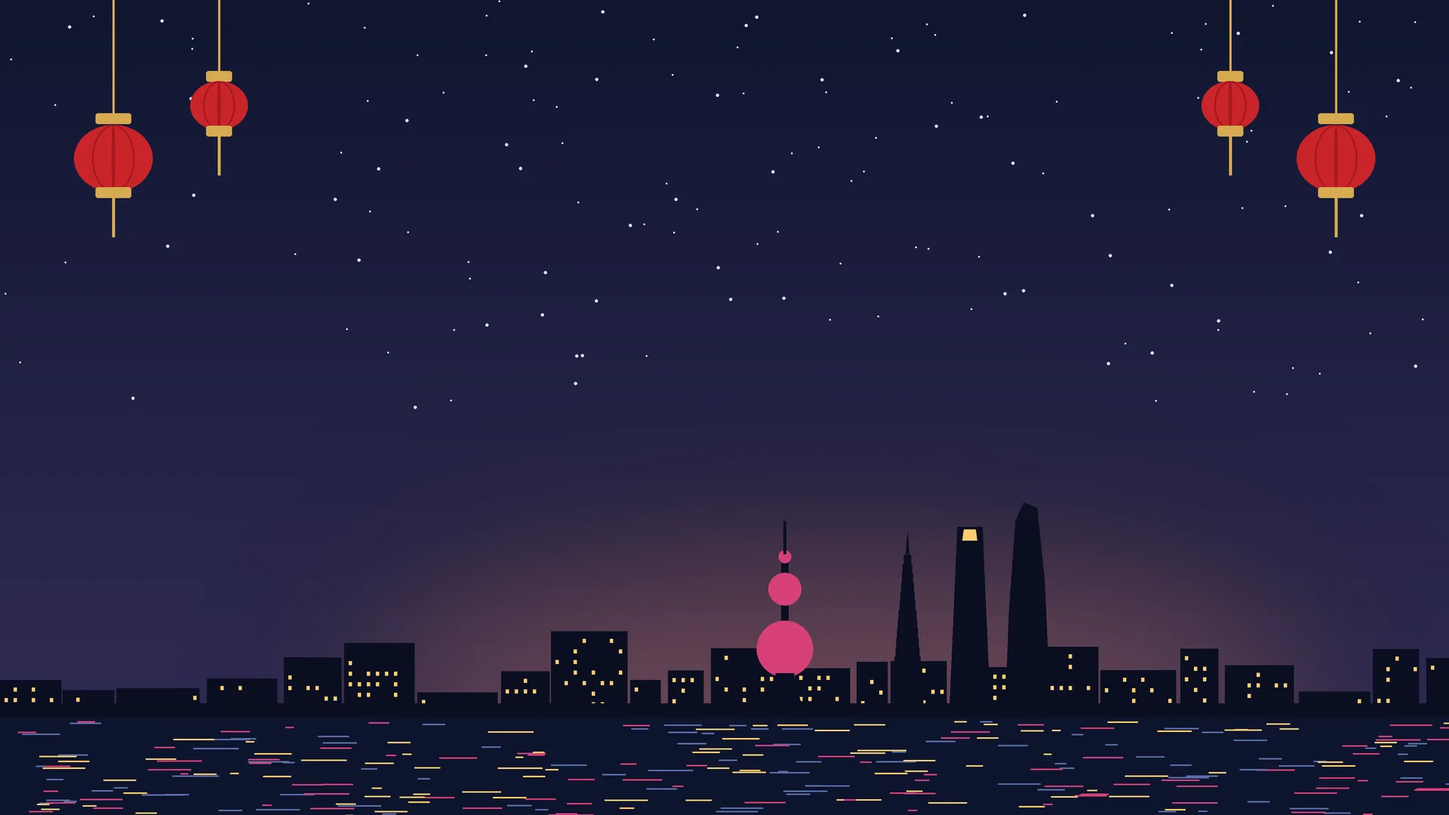
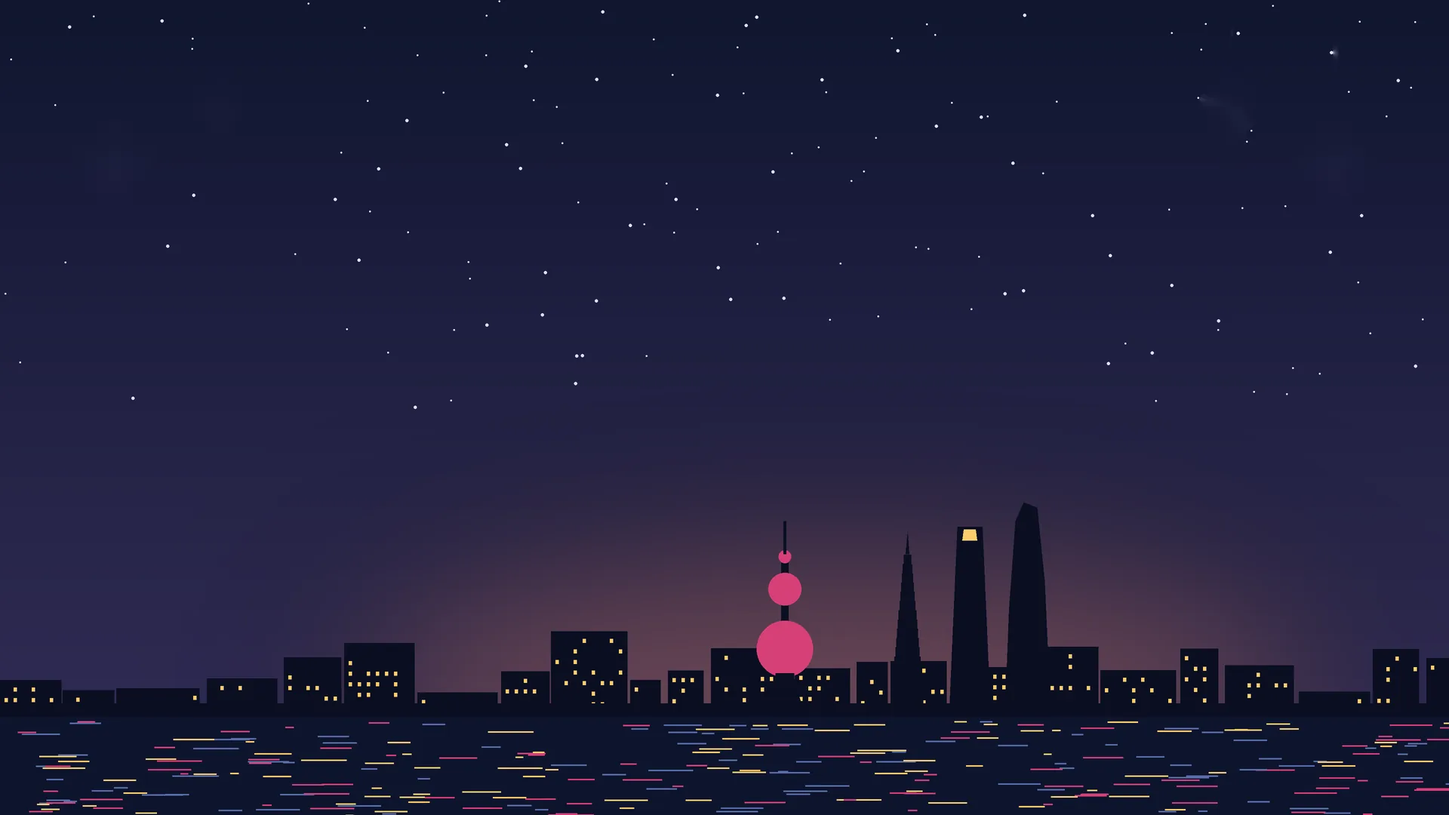
Present: cycle day photo through stops with row highlight, timeline line, living night cover (swaying lanterns, stars, tower glow, water shimmer); autoplay follows the photo cycle
Claude-Session: https://claude.ai/code/session_01Ed3mK7ju1anE1NoZYgHmwk

Changed region(s): [[0.8125, 0.0611, 0.9688, 0.275], [0.0312, 0.0611, 0.1875, 0.275]]

diff --git a/present.html b/present.html
@@ -25,6 +25,8 @@ html,body{margin:0;height:100%;overflow:hidden;background:var(--night);color:var
 #rim i{position:absolute;left:478px;top:478px;width:16px;height:16px;margin:-8px 0 0 -8px;border-radius:50%;background:var(--rim)}
 .dc{width:352px;height:352px;border-radius:50%;border:8px solid #fff;overflow:hidden;box-shadow:0 10px 30px #1f2a4433;cursor:pointer}
 .dc img{width:100%;height:100%;object-fit:cover;display:block;opacity:0}
+.dc .cy{position:absolute;inset:0;transition:opacity .9s ease;transform:scale(1.08);transition:opacity .9s ease,transform 3s cubic-bezier(.2,.6,.3,1)}
+.dc .cy.on{transform:scale(1)}
 .lb{width:160px;height:160px;border-radius:50%;border:5px solid transparent;display:flex;flex-direction:column;align-items:center;justify-content:center;color:#fff;font-family:Kanit,sans-serif;line-height:1;pointer-events:none}
 .lb small{font-size:22px;font-weight:400;opacity:.95}
 .lb b{font-size:76px;font-weight:600;margin-top:2px}
@@ -43,11 +45,16 @@ html,body{margin:0;height:100%;overflow:hidden;background:var(--night);color:var
 .ph-head h2{margin:2px 0 0;font:700 46px/1.15 Kanit,sans-serif}
 .ph-head p{margin:6px 0 0;font:400 21px Sarabun,sans-serif;color:var(--mute)}
 .row{position:absolute;left:0;width:896px;display:flex;align-items:center;background:#ffffffd9;border-radius:12px;box-shadow:0 4px 14px #1f2a4412}
-.row .th{border-radius:50%;flex:none;background:#dfe5ef center/cover no-repeat;border:3px solid;display:grid;place-items:center}
+.row{transition:translate .45s cubic-bezier(.3,1.3,.5,1),background .4s,box-shadow .4s}
+.row.act{background:#fff;translate:14px 0;box-shadow:0 10px 26px #1f2a4429,inset 6px 0 0 var(--c)}
+.row .th{border-radius:50%;flex:none;position:relative;z-index:2;transition:transform .45s cubic-bezier(.3,1.4,.5,1);background:#dfe5ef center/cover no-repeat;border:3px solid;display:grid;place-items:center}
 .row .th img{width:58%;height:58%}
+.row.act .th{transform:scale(1.14)}
+.tl{position:absolute;width:3px;margin-left:-1.5px;border-radius:3px;opacity:.5;z-index:1;transform-origin:top;animation:tl 1.5s .45s cubic-bezier(.45,0,.2,1) backwards}
+@keyframes tl{from{transform:scaleY(0)}}
 .row .tm{font-family:Kanit,sans-serif;font-weight:600;flex:none}
 .row .tx{font-weight:600;color:var(--ink);white-space:nowrap;overflow:hidden;text-overflow:ellipsis}
-.in{animation:pin .7s cubic-bezier(.2,.8,.25,1) both}
+.in{animation:pin .7s cubic-bezier(.2,.8,.25,1) backwards}
 @keyframes pin{from{opacity:0;transform:translateX(40px)}}
 .out{animation:pout .35s ease-in both}
 @keyframes pout{to{opacity:0;transform:translateX(-24px)}}
@@ -59,6 +66,25 @@ html,body{margin:0;height:100%;overflow:hidden;background:var(--night);color:var
 .credits ul{margin:0;padding:0;list-style:none;columns:2;column-gap:56px;font-size:15px;line-height:1.5;color:#3a4563}
 .credits li{break-inside:avoid;margin-bottom:3px}
 
+
+/* living night cover */
+#fx{position:absolute;inset:0;pointer-events:none;transition:opacity 1s ease}
+#fx:not(.on) *{animation-play-state:paused!important}
+.lan{position:absolute;top:-6px;transform-origin:50% 0;animation:sway 4s ease-in-out infinite alternate}
+@keyframes sway{from{rotate:-3.2deg}to{rotate:3.2deg}}
+.star{position:absolute;border-radius:50%;background:#fff;animation:tw 3s ease-in-out infinite alternate}
+@keyframes tw{from{opacity:1}to{opacity:.15}}
+.glow{position:absolute;border-radius:50%;animation:glow 2.6s ease-in-out infinite alternate}
+@keyframes glow{from{opacity:.25;transform:scale(.85)}to{opacity:.9;transform:scale(1.15)}}
+.beacon{position:absolute;width:10px;height:10px;border-radius:50%;background:#ffd56b;box-shadow:0 0 14px 6px #ffd56b88;animation:blink 1.6s steps(1) infinite}
+@keyframes blink{50%{opacity:.1}}
+.water{position:absolute;left:0;top:792px;width:3200px;height:108px;opacity:.5;mix-blend-mode:screen;
+ background:repeating-linear-gradient(90deg,transparent 0 46px,#ffffff22 46px 58px,transparent 58px 130px,#f2c46d26 130px 140px,transparent 140px 210px);
+ -webkit-mask:linear-gradient(#000 0,#0000 100%);mask:linear-gradient(#000,#0000);animation:flow 14s linear infinite}
+@keyframes flow{to{transform:translateX(-1600px)}}
+.shoot{position:absolute;left:1100px;top:60px;width:170px;height:2px;border-radius:2px;background:linear-gradient(90deg,#fff0,#fff);rotate:-24deg;opacity:0;animation:shoot 9s 2s ease-out infinite}
+@keyframes shoot{0%{opacity:0;transform:translateX(0)}2%{opacity:1}8%{opacity:0;transform:translateX(-420px)}100%{opacity:0;transform:translateX(-420px)}}
+@media(prefers-reduced-motion:reduce){#fx *{animation:none!important}}
 /* controls (not scaled) */
 .ui{position:fixed;left:50%;bottom:max(14px,env(safe-area-inset-bottom));transform:translateX(-50%);display:flex;gap:8px;align-items:center;padding:6px;border-radius:16px;background:#141a33d9;box-shadow:0 8px 24px #0006;transition:opacity .4s;z-index:5}
 .ui.hide{opacity:.16}
@@ -80,6 +106,7 @@ html,body{margin:0;height:100%;overflow:hidden;background:var(--night);color:var
   <div id="stage" aria-live="polite">
     <div class="bg" id="bgD"></div>
     <div class="bg" id="bgN"></div>
+    <div id="fx" class="on"></div>
     <div id="rim"></div>
     <div id="wheel"></div>
     <div class="abs" id="ptr"></div>
@@ -123,13 +150,28 @@ var BADGE = 124.6, BADGE_S = 136;
 function sizeFor(a) { return a <= 1 ? 352 + (160 - 352) * a : a <= 2 ? 160 + (112 - 160) * (a - 1) : 112; }
 function lerp(a, b, t) { return a + (b - a) * t; }
 
+/* ---------- living night cover: lanterns, stars, tower glow, water shimmer ---------- */
+var fxEl = $('#fx');
+(function () {
+  var K = 1600 / 1920, h = '';
+  [[92, 117, 321, 4.2, 0], [246, 89, 239, 3.5, -1.2], [1586, 89, 239, 3.8, -2.1], [1712, 117, 321, 4.6, -.6]].forEach(function (l, k) {
+    h += '<img class="lan" alt="" src="img/present/lan' + k + '.png" style="left:' + l[0] * K + 'px;width:' + l[1] * K + 'px;height:' + l[2] * K + 'px;animation-duration:' + l[3] + 's;animation-delay:' + l[4] + 's">';
+  });
+  var seed = 7; function rnd() { seed = (seed * 9301 + 49297) % 233280; return seed / 233280; }
+  for (var k = 0; k < 34; k++) { var z = 1.5 + rnd() * 2.5; h += '<i class="star" style="left:' + (rnd() * 1600) + 'px;top:' + (rnd() * 460) + 'px;width:' + z + 'px;height:' + z + 'px;animation-duration:' + (1.6 + rnd() * 3) + 's;animation-delay:' + (-rnd() * 4) + 's"></i>'; }
+  h += '<i class="glow" style="left:807px;top:657px;width:120px;height:120px;background:radial-gradient(#ff5fa0aa,#ff5fa000 65%)"></i>';
+  h += '<i class="glow" style="left:832px;top:607px;width:70px;height:70px;background:radial-gradient(#ff5fa099,#ff5fa000 65%);animation-delay:-1.3s"></i>';
+  h += '<i class="beacon" style="left:1065px;top:585px"></i><i class="water"></i><i class="shoot"></i>';
+  fxEl.innerHTML = h;
+})();
+
 /* ---------- build the wheel ---------- */
 var rim = $('#rim');
 for (var j = 0; j < 18; j++) { var t = document.createElement('i'); var a = j * 20 * Math.PI / 180; t.style.transform = 'translate(' + (R * Math.cos(a)) + 'px,' + (R * Math.sin(a)) + 'px)'; rim.appendChild(t); }
 var wheel = $('#wheel'), C = [], LB = [], SH = [];
 DAYS.forEach(function (d, i) {
   var c = document.createElement('div'); c.className = 'abs dc'; c.style.background = d.c; c.dataset.i = i;
-  c.innerHTML = '<img alt="" decoding="async" src="' + d.photo + '">';
+  c.innerHTML = '<img alt="" decoding="async" src="' + d.photo + '"><img class="cy" alt="" style="opacity:0"><img class="cy" alt="" style="opacity:0">';
   var l = document.createElement('div'); l.className = 'abs lb'; l.style.background = d.c; l.innerHTML = '<small>วันที่</small><b>' + d.n + '</b>';
   var s = document.createElement('div'); s.className = 'abs sh'; s.innerHTML = esc(d.short[0]) + '<br>' + esc(d.short[1]);
   s.style.transform = 'translate(' + (ROW_X0 + i * ROW_DX - 90) + 'px,515px)';
@@ -189,9 +231,10 @@ var panels = $('#panels');
 function dayPanel(d) {
   var n = d.rows.length, gap = n <= 5 ? 22 : 8, top = 248, avail = 632;
   var rh = Math.min(83, (avail + gap) / n - gap), th = rh * .8;
-  var h = '<div class="panel"><div class="ph-head in" style="animation-delay:.25s"><span class="ic" style="background:' + d.c + '"><img alt="" src="' + d.icon + '"></span><div><h2 style="color:' + d.c + '">' + esc(d.h) + '</h2><p>' + esc(d.dt) + '</p></div></div>';
+  var x0 = rh * .2 + th / 2, y0 = top + rh / 2, y1 = top + (n - 1) * (rh + gap) + rh / 2;
+  var h = '<div class="panel" style="--c:' + d.c + '"><div class="tl" style="left:' + x0 + 'px;top:' + y0 + 'px;height:' + (y1 - y0) + 'px;background:' + d.c + '"></div><div class="ph-head in" style="animation-delay:.25s"><span class="ic" style="background:' + d.c + '"><img alt="" src="' + d.icon + '"></span><div><h2 style="color:' + d.c + '">' + esc(d.h) + '</h2><p>' + esc(d.dt) + '</p></div></div>';
   d.rows.forEach(function (r, k) {
-    h += '<div class="row in" style="top:' + (top + k * (rh + gap)) + 'px;height:' + rh + 'px;animation-delay:' + (.42 + k * .07) + 's;padding:0 ' + rh * .2 + 'px">' +
+    h += '<div class="row in" data-k="' + k + '" style="top:' + (top + k * (rh + gap)) + 'px;height:' + rh + 'px;animation-delay:' + (.42 + k * .07) + 's;padding:0 ' + rh * .2 + 'px">' +
       '<span class="th" style="width:' + th + 'px;height:' + th + 'px;border-color:' + d.c + ';' + (r.img ? 'background-image:url(' + r.img + ')' : 'background-color:' + d.c) + '">' + (r.img ? '' : '<img alt="" src="' + d.icon + '">') + '</span>' +
       '<span class="tm" style="color:' + d.c + ';font-size:' + rh * .4 + 'px;width:' + rh * 1.75 + 'px;margin-left:' + rh * .3 + 'px">' + r.t + '</span>' +
       '<span class="tx" style="font-size:' + Math.min(28, rh * .37) + 'px">' + esc(r.title) + '</span></div>';
@@ -204,11 +247,41 @@ function creditsPanel() {
 }
 function preload(i) { var d = DAYS[i]; if (!d) return; d.rows.forEach(function (r) { if (r.img) (new Image()).src = r.img; }); }
 
+/* cycle the big photo through the day's stops and light up the matching row */
+var gen = 0, playing = false;
+function cyOff() { C.forEach(function (c) { [].forEach.call(c.querySelectorAll('.cy'), function (e) { e.style.opacity = 0; e.classList.remove('on'); }); }); }
+function cycle(di, my) {
+  var d = DAYS[di], stops = [], flip = 0, k = 0;
+  d.rows.forEach(function (r, j) { if (r.img) stops.push(j); });
+  var layers = C[di].querySelectorAll('.cy');
+  function rowsAct(j) { [].forEach.call(document.querySelectorAll('.panel .row'), function (r) { r.classList.toggle('act', +r.dataset.k === j); }); }
+  function step() {
+    if (my !== gen) return;
+    if (k >= stops.length) {  // back to the day's cover photo
+      rowsAct(-1); [].forEach.call(layers, function (e) { e.style.opacity = 0; e.classList.remove('on'); });
+      if (playing) { setTimeout(function () { if (my === gen && playing) next(); }, 1400); return; }
+      k = 0; setTimeout(step, 2600); return;
+    }
+    var j = stops[k++], a = layers[flip], b = layers[1 - flip]; flip = 1 - flip;
+    var go = function () {
+      if (my !== gen) return;
+      a.classList.remove('on'); void a.offsetWidth;
+      a.style.zIndex = 2; b.style.zIndex = 1; a.style.opacity = 1; a.classList.add('on');
+      setTimeout(function () { if (my === gen) b.style.opacity = 0; }, 900);
+      rowsAct(j);
+      setTimeout(step, 2300);
+    };
+    a.src = d.rows[j].img; if (a.decode) a.decode().then(go, go); else go();
+  }
+  setTimeout(step, reduce ? 300 : 1500);
+}
+
 var idx = -1;
 function show(i, instant) {
   i = Math.max(0, Math.min(SL.length - 1, i));
   if (i === idx) return;
-  var s = SL[i]; idx = i;
+  var s = SL[i]; idx = i; var my = ++gen; cyOff();
+  fxEl.style.opacity = s.night ? 1 : 0; fxEl.classList.toggle('on', !!s.night);
   $('#bgN').style.opacity = s.night ? 1 : 0;
   t1.style.color = s.tt ? '#5b6683' : '#fff';
   t1.style.opacity = s.k === 'end' || s.k === 'credits' ? 0 : 1;
@@ -222,24 +295,24 @@ function show(i, instant) {
   var html = s.k === 'day' ? dayPanel(DAYS[s.i]) : s.k === 'credits' ? creditsPanel() : '';
   if (html) { var w = document.createElement('div'); w.innerHTML = html; panels.appendChild(w); }
   tweenTo(s, instant ? 0 : (Math.abs(cur.f - s.f) > 2.5 ? 1500 : 1150));
-  if (s.k === 'day') preload(s.i + 1);
+  if (s.k === 'day') { preload(s.i + 1); cycle(s.i, my); }
+  else if (playing) setTimeout(function () { if (my === gen && playing) { if (idx >= SL.length - 1) stopPlay(); else next(); } }, 5200);
   $('#ct').textContent = (i + 1) + ' / ' + SL.length;
   $('#prev').disabled = i === 0; $('#next').disabled = i === SL.length - 1;
   try { history.replaceState(null, '', '#' + (i + 1)); } catch (e) {}
 }
 
 /* ---------- controls ---------- */
-var timer = 0, playB = $('#play');
-function stopPlay() { clearInterval(timer); timer = 0; playB.setAttribute('aria-pressed', 'false'); }
+var playB = $('#play');
+function stopPlay() { playing = false; playB.setAttribute('aria-pressed', 'false'); }
 function next() { show(idx + 1); }
 function prev() { show(idx - 1); }
 $('#next').onclick = function () { stopPlay(); next(); };
 $('#prev').onclick = function () { stopPlay(); prev(); };
 playB.onclick = function () {
-  if (timer) { stopPlay(); return; }
-  playB.setAttribute('aria-pressed', 'true');
-  if (idx === SL.length - 1) show(0);
-  timer = setInterval(function () { if (idx >= SL.length - 1) { stopPlay(); return; } next(); }, 6500);
+  if (playing) { stopPlay(); return; }
+  playing = true; playB.setAttribute('aria-pressed', 'true');
+  if (idx >= SL.length - 1) show(0); else next();
 };
 var fsB = $('#fs');
 if (!document.documentElement.requestFullscreen) fsB.hidden = true;

diff --git a/src/present_template.html b/src/present_template.html
@@ -25,6 +25,8 @@ html,body{margin:0;height:100%;overflow:hidden;background:var(--night);color:var
 #rim i{position:absolute;left:478px;top:478px;width:16px;height:16px;margin:-8px 0 0 -8px;border-radius:50%;background:var(--rim)}
 .dc{width:352px;height:352px;border-radius:50%;border:8px solid #fff;overflow:hidden;box-shadow:0 10px 30px #1f2a4433;cursor:pointer}
 .dc img{width:100%;height:100%;object-fit:cover;display:block;opacity:0}
+.dc .cy{position:absolute;inset:0;transition:opacity .9s ease;transform:scale(1.08);transition:opacity .9s ease,transform 3s cubic-bezier(.2,.6,.3,1)}
+.dc .cy.on{transform:scale(1)}
 .lb{width:160px;height:160px;border-radius:50%;border:5px solid transparent;display:flex;flex-direction:column;align-items:center;justify-content:center;color:#fff;font-family:Kanit,sans-serif;line-height:1;pointer-events:none}
 .lb small{font-size:22px;font-weight:400;opacity:.95}
 .lb b{font-size:76px;font-weight:600;margin-top:2px}
@@ -43,11 +45,16 @@ html,body{margin:0;height:100%;overflow:hidden;background:var(--night);color:var
 .ph-head h2{margin:2px 0 0;font:700 46px/1.15 Kanit,sans-serif}
 .ph-head p{margin:6px 0 0;font:400 21px Sarabun,sans-serif;color:var(--mute)}
 .row{position:absolute;left:0;width:896px;display:flex;align-items:center;background:#ffffffd9;border-radius:12px;box-shadow:0 4px 14px #1f2a4412}
-.row .th{border-radius:50%;flex:none;background:#dfe5ef center/cover no-repeat;border:3px solid;display:grid;place-items:center}
+.row{transition:translate .45s cubic-bezier(.3,1.3,.5,1),background .4s,box-shadow .4s}
+.row.act{background:#fff;translate:14px 0;box-shadow:0 10px 26px #1f2a4429,inset 6px 0 0 var(--c)}
+.row .th{border-radius:50%;flex:none;position:relative;z-index:2;transition:transform .45s cubic-bezier(.3,1.4,.5,1);background:#dfe5ef center/cover no-repeat;border:3px solid;display:grid;place-items:center}
 .row .th img{width:58%;height:58%}
+.row.act .th{transform:scale(1.14)}
+.tl{position:absolute;width:3px;margin-left:-1.5px;border-radius:3px;opacity:.5;z-index:1;transform-origin:top;animation:tl 1.5s .45s cubic-bezier(.45,0,.2,1) backwards}
+@keyframes tl{from{transform:scaleY(0)}}
 .row .tm{font-family:Kanit,sans-serif;font-weight:600;flex:none}
 .row .tx{font-weight:600;color:var(--ink);white-space:nowrap;overflow:hidden;text-overflow:ellipsis}
-.in{animation:pin .7s cubic-bezier(.2,.8,.25,1) both}
+.in{animation:pin .7s cubic-bezier(.2,.8,.25,1) backwards}
 @keyframes pin{from{opacity:0;transform:translateX(40px)}}
 .out{animation:pout .35s ease-in both}
 @keyframes pout{to{opacity:0;transform:translateX(-24px)}}
@@ -59,6 +66,25 @@ html,body{margin:0;height:100%;overflow:hidden;background:var(--night);color:var
 .credits ul{margin:0;padding:0;list-style:none;columns:2;column-gap:56px;font-size:15px;line-height:1.5;color:#3a4563}
 .credits li{break-inside:avoid;margin-bottom:3px}
 
+
+/* living night cover */
+#fx{position:absolute;inset:0;pointer-events:none;transition:opacity 1s ease}
+#fx:not(.on) *{animation-play-state:paused!important}
+.lan{position:absolute;top:-6px;transform-origin:50% 0;animation:sway 4s ease-in-out infinite alternate}
+@keyframes sway{from{rotate:-3.2deg}to{rotate:3.2deg}}
+.star{position:absolute;border-radius:50%;background:#fff;animation:tw 3s ease-in-out infinite alternate}
+@keyframes tw{from{opacity:1}to{opacity:.15}}
+.glow{position:absolute;border-radius:50%;animation:glow 2.6s ease-in-out infinite alternate}
+@keyframes glow{from{opacity:.25;transform:scale(.85)}to{opacity:.9;transform:scale(1.15)}}
+.beacon{position:absolute;width:10px;height:10px;border-radius:50%;background:#ffd56b;box-shadow:0 0 14px 6px #ffd56b88;animation:blink 1.6s steps(1) infinite}
+@keyframes blink{50%{opacity:.1}}
+.water{position:absolute;left:0;top:792px;width:3200px;height:108px;opacity:.5;mix-blend-mode:screen;
+ background:repeating-linear-gradient(90deg,transparent 0 46px,#ffffff22 46px 58px,transparent 58px 130px,#f2c46d26 130px 140px,transparent 140px 210px);
+ -webkit-mask:linear-gradient(#000 0,#0000 100%);mask:linear-gradient(#000,#0000);animation:flow 14s linear infinite}
+@keyframes flow{to{transform:translateX(-1600px)}}
+.shoot{position:absolute;left:1100px;top:60px;width:170px;height:2px;border-radius:2px;background:linear-gradient(90deg,#fff0,#fff);rotate:-24deg;opacity:0;animation:shoot 9s 2s ease-out infinite}
+@keyframes shoot{0%{opacity:0;transform:translateX(0)}2%{opacity:1}8%{opacity:0;transform:translateX(-420px)}100%{opacity:0;transform:translateX(-420px)}}
+@media(prefers-reduced-motion:reduce){#fx *{animation:none!important}}
 /* controls (not scaled) */
 .ui{position:fixed;left:50%;bottom:max(14px,env(safe-area-inset-bottom));transform:translateX(-50%);display:flex;gap:8px;align-items:center;padding:6px;border-radius:16px;background:#141a33d9;box-shadow:0 8px 24px #0006;transition:opacity .4s;z-index:5}
 .ui.hide{opacity:.16}
@@ -80,6 +106,7 @@ html,body{margin:0;height:100%;overflow:hidden;background:var(--night);color:var
   <div id="stage" aria-live="polite">
     <div class="bg" id="bgD"></div>
     <div class="bg" id="bgN"></div>
+    <div id="fx" class="on"></div>
     <div id="rim"></div>
     <div id="wheel"></div>
     <div class="abs" id="ptr"></div>
@@ -123,13 +150,28 @@ var BADGE = 124.6, BADGE_S = 136;
 function sizeFor(a) { return a <= 1 ? 352 + (160 - 352) * a : a <= 2 ? 160 + (112 - 160) * (a - 1) : 112; }
 function lerp(a, b, t) { return a + (b - a) * t; }
 
+/* ---------- living night cover: lanterns, stars, tower glow, water shimmer ---------- */
+var fxEl = $('#fx');
+(function () {
+  var K = 1600 / 1920, h = '';
+  [[92, 117, 321, 4.2, 0], [246, 89, 239, 3.5, -1.2], [1586, 89, 239, 3.8, -2.1], [1712, 117, 321, 4.6, -.6]].forEach(function (l, k) {
+    h += '<img class="lan" alt="" src="img/present/lan' + k + '.png" style="left:' + l[0] * K + 'px;width:' + l[1] * K + 'px;height:' + l[2] * K + 'px;animation-duration:' + l[3] + 's;animation-delay:' + l[4] + 's">';
+  });
+  var seed = 7; function rnd() { seed = (seed * 9301 + 49297) % 233280; return seed / 233280; }
+  for (var k = 0; k < 34; k++) { var z = 1.5 + rnd() * 2.5; h += '<i class="star" style="left:' + (rnd() * 1600) + 'px;top:' + (rnd() * 460) + 'px;width:' + z + 'px;height:' + z + 'px;animation-duration:' + (1.6 + rnd() * 3) + 's;animation-delay:' + (-rnd() * 4) + 's"></i>'; }
+  h += '<i class="glow" style="left:807px;top:657px;width:120px;height:120px;background:radial-gradient(#ff5fa0aa,#ff5fa000 65%)"></i>';
+  h += '<i class="glow" style="left:832px;top:607px;width:70px;height:70px;background:radial-gradient(#ff5fa099,#ff5fa000 65%);animation-delay:-1.3s"></i>';
+  h += '<i class="beacon" style="left:1065px;top:585px"></i><i class="water"></i><i class="shoot"></i>';
+  fxEl.innerHTML = h;
+})();
+
 /* ---------- build the wheel ---------- */
 var rim = $('#rim');
 for (var j = 0; j < 18; j++) { var t = document.createElement('i'); var a = j * 20 * Math.PI / 180; t.style.transform = 'translate(' + (R * Math.cos(a)) + 'px,' + (R * Math.sin(a)) + 'px)'; rim.appendChild(t); }
 var wheel = $('#wheel'), C = [], LB = [], SH = [];
 DAYS.forEach(function (d, i) {
   var c = document.createElement('div'); c.className = 'abs dc'; c.style.background = d.c; c.dataset.i = i;
-  c.innerHTML = '<img alt="" decoding="async" src="' + d.photo + '">';
+  c.innerHTML = '<img alt="" decoding="async" src="' + d.photo + '"><img class="cy" alt="" style="opacity:0"><img class="cy" alt="" style="opacity:0">';
   var l = document.createElement('div'); l.className = 'abs lb'; l.style.background = d.c; l.innerHTML = '<small>วันที่</small><b>' + d.n + '</b>';
   var s = document.createElement('div'); s.className = 'abs sh'; s.innerHTML = esc(d.short[0]) + '<br>' + esc(d.short[1]);
   s.style.transform = 'translate(' + (ROW_X0 + i * ROW_DX - 90) + 'px,515px)';
@@ -189,9 +231,10 @@ var panels = $('#panels');
 function dayPanel(d) {
   var n = d.rows.length, gap = n <= 5 ? 22 : 8, top = 248, avail = 632;
   var rh = Math.min(83, (avail + gap) / n - gap), th = rh * .8;
-  var h = '<div class="panel"><div class="ph-head in" style="animation-delay:.25s"><span class="ic" style="background:' + d.c + '"><img alt="" src="' + d.icon + '"></span><div><h2 style="color:' + d.c + '">' + esc(d.h) + '</h2><p>' + esc(d.dt) + '</p></div></div>';
+  var x0 = rh * .2 + th / 2, y0 = top + rh / 2, y1 = top + (n - 1) * (rh + gap) + rh / 2;
+  var h = '<div class="panel" style="--c:' + d.c + '"><div class="tl" style="left:' + x0 + 'px;top:' + y0 + 'px;height:' + (y1 - y0) + 'px;background:' + d.c + '"></div><div class="ph-head in" style="animation-delay:.25s"><span class="ic" style="background:' + d.c + '"><img alt="" src="' + d.icon + '"></span><div><h2 style="color:' + d.c + '">' + esc(d.h) + '</h2><p>' + esc(d.dt) + '</p></div></div>';
   d.rows.forEach(function (r, k) {
-    h += '<div class="row in" style="top:' + (top + k * (rh + gap)) + 'px;height:' + rh + 'px;animation-delay:' + (.42 + k * .07) + 's;padding:0 ' + rh * .2 + 'px">' +
+    h += '<div class="row in" data-k="' + k + '" style="top:' + (top + k * (rh + gap)) + 'px;height:' + rh + 'px;animation-delay:' + (.42 + k * .07) + 's;padding:0 ' + rh * .2 + 'px">' +
       '<span class="th" style="width:' + th + 'px;height:' + th + 'px;border-color:' + d.c + ';' + (r.img ? 'background-image:url(' + r.img + ')' : 'background-color:' + d.c) + '">' + (r.img ? '' : '<img alt="" src="' + d.icon + '">') + '</span>' +
       '<span class="tm" style="color:' + d.c + ';font-size:' + rh * .4 + 'px;width:' + rh * 1.75 + 'px;margin-left:' + rh * .3 + 'px">' + r.t + '</span>' +
       '<span class="tx" style="font-size:' + Math.min(28, rh * .37) + 'px">' + esc(r.title) + '</span></div>';
@@ -204,11 +247,41 @@ function creditsPanel() {
 }
 function preload(i) { var d = DAYS[i]; if (!d) return; d.rows.forEach(function (r) { if (r.img) (new Image()).src = r.img; }); }
 
+/* cycle the big photo through the day's stops and light up the matching row */
+var gen = 0, playing = false;
+function cyOff() { C.forEach(function (c) { [].forEach.call(c.querySelectorAll('.cy'), function (e) { e.style.opacity = 0; e.classList.remove('on'); }); }); }
+function cycle(di, my) {
+  var d = DAYS[di], stops = [], flip = 0, k = 0;
+  d.rows.forEach(function (r, j) { if (r.img) stops.push(j); });
+  var layers = C[di].querySelectorAll('.cy');
+  function rowsAct(j) { [].forEach.call(document.querySelectorAll('.panel .row'), function (r) { r.classList.toggle('act', +r.dataset.k === j); }); }
+  function step() {
+    if (my !== gen) return;
+    if (k >= stops.length) {  // back to the day's cover photo
+      rowsAct(-1); [].forEach.call(layers, function (e) { e.style.opacity = 0; e.classList.remove('on'); });
+      if (playing) { setTimeout(function () { if (my === gen && playing) next(); }, 1400); return; }
+      k = 0; setTimeout(step, 2600); return;
+    }
+    var j = stops[k++], a = layers[flip], b = layers[1 - flip]; flip = 1 - flip;
+    var go = function () {
+      if (my !== gen) return;
+      a.classList.remove('on'); void a.offsetWidth;
+      a.style.zIndex = 2; b.style.zIndex = 1; a.style.opacity = 1; a.classList.add('on');
+      setTimeout(function () { if (my === gen) b.style.opacity = 0; }, 900);
+      rowsAct(j);
+      setTimeout(step, 2300);
+    };
+    a.src = d.rows[j].img; if (a.decode) a.decode().then(go, go); else go();
+  }
+  setTimeout(step, reduce ? 300 : 1500);
+}
+
 var idx = -1;
 function show(i, instant) {
   i = Math.max(0, Math.min(SL.length - 1, i));
   if (i === idx) return;
-  var s = SL[i]; idx = i;
+  var s = SL[i]; idx = i; var my = ++gen; cyOff();
+  fxEl.style.opacity = s.night ? 1 : 0; fxEl.classList.toggle('on', !!s.night);
   $('#bgN').style.opacity = s.night ? 1 : 0;
   t1.style.color = s.tt ? '#5b6683' : '#fff';
   t1.style.opacity = s.k === 'end' || s.k === 'credits' ? 0 : 1;
@@ -222,24 +295,24 @@ function show(i, instant) {
   var html = s.k === 'day' ? dayPanel(DAYS[s.i]) : s.k === 'credits' ? creditsPanel() : '';
   if (html) { var w = document.createElement('div'); w.innerHTML = html; panels.appendChild(w); }
   tweenTo(s, instant ? 0 : (Math.abs(cur.f - s.f) > 2.5 ? 1500 : 1150));
-  if (s.k === 'day') preload(s.i + 1);
+  if (s.k === 'day') { preload(s.i + 1); cycle(s.i, my); }
+  else if (playing) setTimeout(function () { if (my === gen && playing) { if (idx >= SL.length - 1) stopPlay(); else next(); } }, 5200);
   $('#ct').textContent = (i + 1) + ' / ' + SL.length;
   $('#prev').disabled = i === 0; $('#next').disabled = i === SL.length - 1;
   try { history.replaceState(null, '', '#' + (i + 1)); } catch (e) {}
 }
 
 /* ---------- controls ---------- */
-var timer = 0, playB = $('#play');
-function stopPlay() { clearInterval(timer); timer = 0; playB.setAttribute('aria-pressed', 'false'); }
+var playB = $('#play');
+function stopPlay() { playing = false; playB.setAttribute('aria-pressed', 'false'); }
 function next() { show(idx + 1); }
 function prev() { show(idx - 1); }
 $('#next').onclick = function () { stopPlay(); next(); };
 $('#prev').onclick = function () { stopPlay(); prev(); };
 playB.onclick = function () {
-  if (timer) { stopPlay(); return; }
-  playB.setAttribute('aria-pressed', 'true');
-  if (idx === SL.length - 1) show(0);
-  timer = setInterval(function () { if (idx >= SL.length - 1) { stopPlay(); return; } next(); }, 6500);
+  if (playing) { stopPlay(); return; }
+  playing = true; playB.setAttribute('aria-pressed', 'true');
+  if (idx >= SL.length - 1) show(0); else next();
 };
 var fsB = $('#fs');
 if (!document.documentElement.requestFullscreen) fsB.hidden = true;

diff --git a/index.html b/index.html
@@ -13,7 +13,7 @@
 <link rel="icon" href="favicon.ico" sizes="48x48">
 <link rel="icon" href="icon.svg" type="image/svg+xml">
 <link rel="icon" href="favicon-32.png" type="image/png" sizes="32x32">
-<meta name="build" content="20261124161541">
+<meta name="build" content="20261124162339">
 <link rel="preload" href="fonts/noto-sans-thai-thai-400-normal.woff2" as="font" type="font/woff2" crossorigin>
 <link rel="stylesheet" href="vendor/leaflet/leaflet.css" media="print" onload="this.media='all'">
 <link rel="preload" href="fonts/kanit-thai-600-normal.woff2" as="font" type="font/woff2" crossorigin>
@@ -1021,12 +1021,12 @@
   </section>
 
   <footer class="foot">🎄 Merry Christmas & Happy Shanghai Trip 🦌
-    <small class="ver">อัปเดตล่าสุด 24 พ.ย. 2026 16:15</small>
+    <small class="ver">อัปเดตล่าสุด 24 พ.ย. 2026 16:23</small>
     <small>ภาพสถานที่จาก Wikimedia Commons ตามสัญญาอนุญาต Creative Commons · ภาพหัวเว็บ: David Zhang from Canada · <a href="https://commons.wikimedia.org/wiki/File:Pudong_night_skyline_viewed_from_the_Bund_in_Shanghai_%2841199899084%29.jpg" target="_blank" rel="noopener">CC BY-SA 2.0</a> · แผนที่ © OpenStreetMap contributors</small></footer>
 </main>
 
 <div id="printdoc" aria-hidden="true">
-  <header class="p-head"><img class="p-hero" data-psrc="img/hd/hero-960.webp" alt=""><div class="p-hin"><small>SHANGHAI · DECEMBER 2026 · Toonzii &amp; Bear</small><h1>แผนเที่ยวเซี่ยงไฮ้ 8 วัน 7 คืน</h1><p>เสาร์ 5 – เสาร์ 12 ธันวาคม 2026 · พิมพ์จากเว็บ อัปเดต 24 พ.ย. 2026 16:15</p></div></header>
+  <header class="p-head"><img class="p-hero" data-psrc="img/hd/hero-960.webp" alt=""><div class="p-hin"><small>SHANGHAI · DECEMBER 2026 · Toonzii &amp; Bear</small><h1>แผนเที่ยวเซี่ยงไฮ้ 8 วัน 7 คืน</h1><p>เสาร์ 5 – เสาร์ 12 ธันวาคม 2026 · พิมพ์จากเว็บ อัปเดต 24 พ.ย. 2026 16:23</p></div></header>
   <div class="p-grid">
     <div class="p-box"><h4>✈ เที่ยวบิน Spring Airlines</h4><table class="p-tbl"><tbody>
       <tr><td><b>ขาไป</b> ส. 5 ธ.ค.</td><td class="p-mono">9C7284</td><td>BKK 16:45 → PVG 22:05</td></tr>

diff --git a/sw.js b/sw.js
@@ -1,7 +1,7 @@
 // Offline support for the trip page.
 // The page itself is fetched network-first, so an installed iPhone/Android app always shows the newest
 // version when online and falls back to the saved copy when offline. Photos, fonts and Leaflet are cache-first.
-const CACHE_NAME = 'sh-trip-v202611241615';
+const CACHE_NAME = 'sh-trip-v202611241623';
 const URLS_TO_CACHE = [
   './',
   './index.html',
